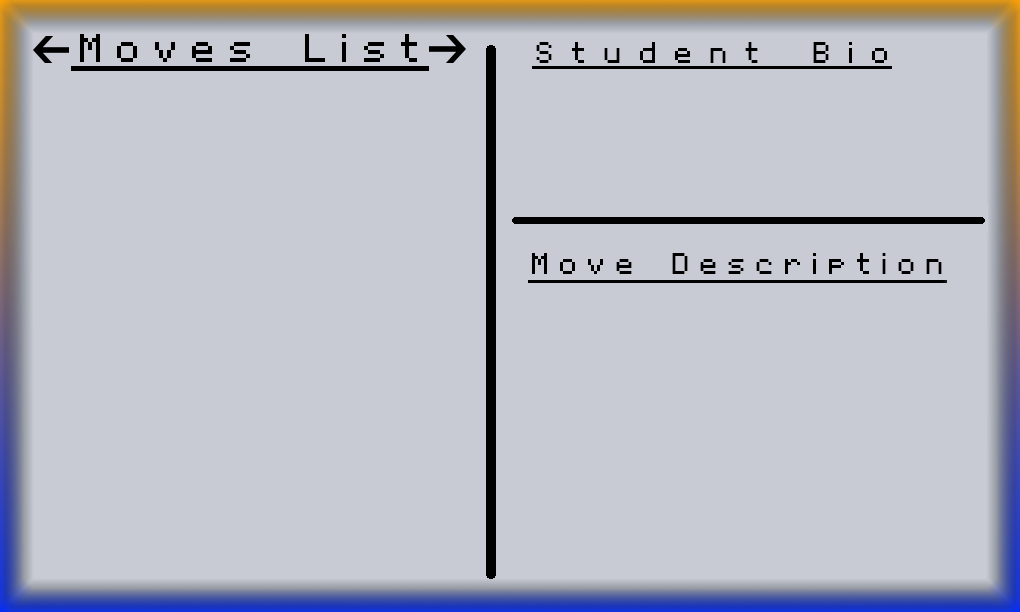
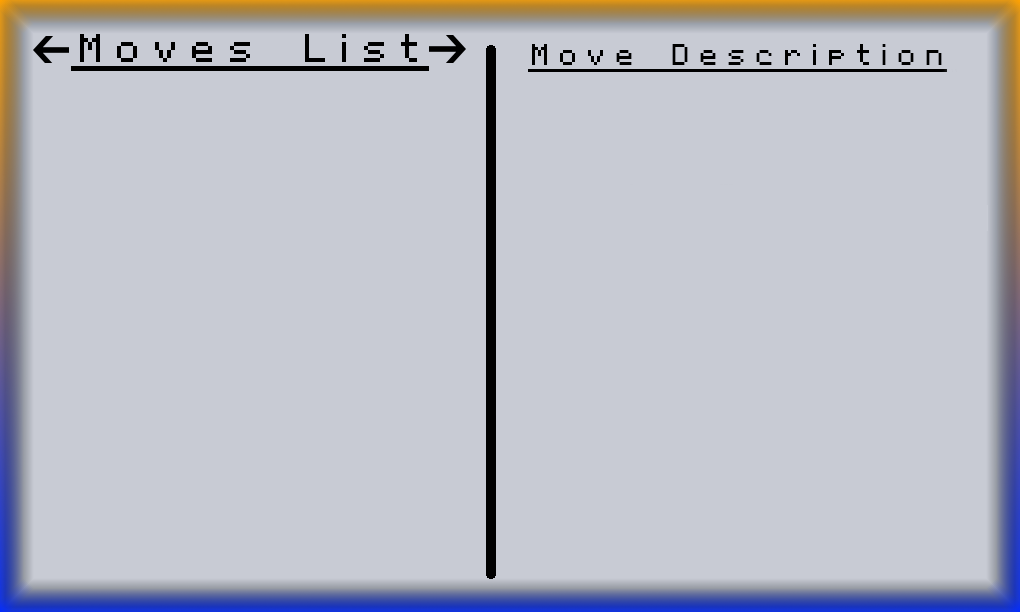
This completes the hero menu with the third degree audit panel and cleans up code in both the hero screen and inventory screens

Changed region(s): [[0.5167, 0.0621, 0.9422, 0.1242], [0.5167, 0.4036, 0.9422, 0.4657], [0.4863, 0.3415, 0.9725, 0.3725]]

diff --git a/core/src/com/superschmalgames/InventoryScreen.java b/core/src/com/superschmalgames/InventoryScreen.java
@@ -22,19 +22,11 @@ public class InventoryScreen implements Screen {
     int invPage;
     int invRow;
 
-    Texture invTex1, invTex2, invTex3, invTex4, invTex5;
-
     public InventoryScreen() {
 
         //Initialize the camera. Set the camera dimensions equal to our game screen height and width.
         camera = new OrthographicCamera();
         camera.setToOrtho(false, Utils.GAME_SCREEN_WIDTH, Utils.GAME_SCREEN_HEIGHT);
-
-        invTex1 = new Texture("visuals/Menus/Consumable Item Menu.png");
-        invTex2 = new Texture("visuals/Menus/Equipment Item Menu.png");
-        invTex3 = new Texture("visuals/Menus/Apparel Item Menu.png");
-        invTex4 = new Texture("visuals/Menus/Selected Item Box.png");
-        invTex5 = new Texture("visuals/Menus/white_sq.png");
 
     }
 
@@ -68,7 +60,7 @@ public class InventoryScreen implements Screen {
         );
 
         if(invPanel.equals("Consumable")) {
-            MainClass.batch.draw(invTex1, Utils.GAME_SCREEN_WIDTH / 2 - invTex1.getWidth() / 2, 0);
+            MainClass.batch.draw(Utils.inv_consumable_tex, 0, 0);
             int temp = 0;
             if(invPage == 0) {
                 for (int i = 0; i < MainClass.hero.inventory.items.size(); i++) {
@@ -77,7 +69,7 @@ public class InventoryScreen implements Screen {
                             MainClass.hero.inventory.items.get(i).getItemType() == 'c') {
                         Utils.font.draw(MainClass.batch, (MainClass.hero.inventory.items.get(i)).getItemName()
                                         + " x" + MainClass.hero.inventory.items.get(i).getQuantity(),
-                                Utils.GAME_SCREEN_WIDTH / 2 - invTex1.getWidth() / 2 + 50, 515 - 65 * temp);
+                                        50, 515 - 65 * temp);
                         temp += 1;
                     }
                 }
@@ -99,8 +91,7 @@ public class InventoryScreen implements Screen {
                             && MainClass.hero.inventory.items.get(i).getQuantity() > 0
                             && MainClass.hero.inventory.items.get(i).getItemType() == 'c') {
                         Utils.font.draw(MainClass.batch, (MainClass.hero.inventory.items.get(i)).getItemName()
-                                        + " x" + MainClass.hero.inventory.items.get(i).getQuantity(),
-                                Utils.GAME_SCREEN_WIDTH / 2 - invTex1.getWidth() / 2 + 50, 515 - 65 * invRow);
+                                        + " x" + MainClass.hero.inventory.items.get(i).getQuantity(), 50, 515 - 65 * invRow);
                     }
                 }
             }
@@ -109,7 +100,7 @@ public class InventoryScreen implements Screen {
             int invIndex = 0;
             if(invRow == 0 && invPage == 0 && MainClass.hero.inventory.getNumC() > 0)
             {
-                MainClass.batch.draw(invTex5, 505, 435, 94, 94);
+                MainClass.batch.draw(Utils.white_sq_tex, 505, 435, 94, 94);
 
                 while (MainClass.hero.inventory.items.get(invIndex).getItemType() != 'c' ||
                         MainClass.hero.inventory.items.get(invIndex).getQuantity() == 0) {
@@ -130,7 +121,7 @@ public class InventoryScreen implements Screen {
                     invIndex += 1;
                 }
                 if (MainClass.hero.inventory.getNumC() > 0) {
-                    MainClass.batch.draw(invTex5, 505, 435, 94, 94);
+                    MainClass.batch.draw(Utils.white_sq_tex, 505, 435, 94, 94);
                     MainClass.batch.draw(MainClass.hero.inventory.items.get(invIndex).getTexture(), 520, 450, 64, 64);
                     Utils.font_small.draw(MainClass.batch, MainClass.hero.inventory.items.get(invIndex).getItemName() +
                             "\nBoosts "+ MainClass.hero.inventory.items.get(invIndex).getStatBoosted()+" by "+
@@ -139,7 +130,7 @@ public class InventoryScreen implements Screen {
             }
         }
         else if(invPanel == "Equipment") {
-            MainClass.batch.draw(invTex2, Utils.GAME_SCREEN_WIDTH / 2 - invTex1.getWidth() / 2, 0);
+            MainClass.batch.draw(Utils.inv_equip_tex, 0, 0);
             int temp = 0;
             if(invPage == 0) {
                 for (int i = 0; i < MainClass.hero.inventory.items.size(); i++) {
@@ -148,7 +139,7 @@ public class InventoryScreen implements Screen {
                             MainClass.hero.inventory.items.get(i).getItemType() == 'e') {
                         Utils.font.draw(MainClass.batch, (MainClass.hero.inventory.items.get(i)).getItemName()
                                         + " x" + MainClass.hero.inventory.items.get(i).getQuantity(),
-                                Utils.GAME_SCREEN_WIDTH / 2 - invTex1.getWidth() / 2 + 50, 515 - 65 * temp);
+                                50, 515 - 65 * temp);
                         temp += 1;
                     }
                 }
@@ -171,7 +162,7 @@ public class InventoryScreen implements Screen {
                             && MainClass.hero.inventory.items.get(i).getItemType() == 'e') {
                         Utils.font.draw(MainClass.batch, (MainClass.hero.inventory.items.get(i)).getItemName()
                                         + " x" + MainClass.hero.inventory.items.get(i).getQuantity(),
-                                Utils.GAME_SCREEN_WIDTH / 2 - invTex1.getWidth() / 2 + 50, 515 - 65 * invRow);
+                               50, 515 - 65 * invRow);
                     }
                 }
             }
@@ -180,7 +171,7 @@ public class InventoryScreen implements Screen {
             int invIndex = 0;
             if(invRow == 0 && invPage == 0 && MainClass.hero.inventory.getNumE() > 0)
             {
-                MainClass.batch.draw(invTex5, 505, 435, 94, 94);
+                MainClass.batch.draw(Utils.white_sq_tex, 505, 435, 94, 94);
 
                 while (MainClass.hero.inventory.items.get(invIndex).getItemType() != 'e' ||
                         MainClass.hero.inventory.items.get(invIndex).getQuantity() == 0) {
@@ -201,7 +192,7 @@ public class InventoryScreen implements Screen {
                     invIndex += 1;
                 }
                 if (MainClass.hero.inventory.getNumE() > 0) {
-                    MainClass.batch.draw(invTex5, 505, 435, 94, 94);
+                    MainClass.batch.draw(Utils.white_sq_tex, 505, 435, 94, 94);
                     MainClass.batch.draw(MainClass.hero.inventory.items.get(invIndex).getTexture(), 520, 450, 64, 64);
                     Utils.font_small.draw(MainClass.batch, MainClass.hero.inventory.items.get(invIndex).getItemName() +
                             "\nBoosts "+ MainClass.hero.inventory.items.get(invIndex).getStatBoosted()+" by "+
@@ -210,7 +201,7 @@ public class InventoryScreen implements Screen {
             }
         }
         else if(invPanel == "Apparel") {
-            MainClass.batch.draw(invTex3, Utils.GAME_SCREEN_WIDTH / 2 - invTex1.getWidth() / 2, 0);
+            MainClass.batch.draw(Utils.inv_apparel_tex, 0, 0);
             int temp = 0;
             if(invPage == 0) {
                 for (int i = 0; i < MainClass.hero.inventory.items.size(); i++) {
@@ -219,7 +210,7 @@ public class InventoryScreen implements Screen {
                             MainClass.hero.inventory.items.get(i).getItemType() == 'a') {
                         Utils.font.draw(MainClass.batch, (MainClass.hero.inventory.items.get(i)).getItemName()
                                         + " x" + MainClass.hero.inventory.items.get(i).getQuantity(),
-                                Utils.GAME_SCREEN_WIDTH / 2 - invTex1.getWidth() / 2 + 50, 515 - 65 * temp);
+                                50, 515 - 65 * temp);
                         temp += 1;
                     }
                 }
@@ -242,7 +233,7 @@ public class InventoryScreen implements Screen {
                             && MainClass.hero.inventory.items.get(i).getItemType() == 'a') {
                         Utils.font.draw(MainClass.batch, (MainClass.hero.inventory.items.get(i)).getItemName()
                                         + " x" + MainClass.hero.inventory.items.get(i).getQuantity(),
-                                Utils.GAME_SCREEN_WIDTH / 2 - invTex1.getWidth() / 2 + 50, 515 - 65 * invRow);
+                                50, 515 - 65 * invRow);
                     }
                 }
             }
@@ -251,7 +242,7 @@ public class InventoryScreen implements Screen {
             int invIndex = 0;
             if(invRow == 0 && invPage == 0 && MainClass.hero.inventory.getNumA() > 0)
             {
-                MainClass.batch.draw(invTex5, 505, 435, 94, 94);
+                MainClass.batch.draw(Utils.white_sq_tex, 505, 435, 94, 94);
 
                 while (MainClass.hero.inventory.items.get(invIndex).getItemType() != 'a' ||
                         MainClass.hero.inventory.items.get(invIndex).getQuantity() == 0) {
@@ -272,7 +263,7 @@ public class InventoryScreen implements Screen {
                     invIndex += 1;
                 }
                 if (MainClass.hero.inventory.getNumA() > 0) {
-                    MainClass.batch.draw(invTex5, 505, 435, 94, 94);
+                    MainClass.batch.draw(Utils.white_sq_tex, 505, 435, 94, 94);
                     MainClass.batch.draw(MainClass.hero.inventory.items.get(invIndex).getTexture(), 520, 450, 64, 64);
                     Utils.font_small.draw(MainClass.batch, MainClass.hero.inventory.items.get(invIndex).getItemName() +
                             "\nBoosts "+ MainClass.hero.inventory.items.get(invIndex).getStatBoosted()+" by "+
@@ -281,19 +272,19 @@ public class InventoryScreen implements Screen {
             }
         }
 
-        MainClass.batch.draw(invTex4, Utils.GAME_SCREEN_WIDTH/2-invTex1.getWidth()/2+35,480-65*invRow);
+        MainClass.batch.draw(Utils.sel_item_tex, 35,480-65*invRow);
 
 
         if (invPanel.equals("Consumable") && MainClass.hero.inventory.getNumC() == 0)
-            Utils.font.draw(MainClass.batch, "No items of this type!", Utils.GAME_SCREEN_WIDTH/2-invTex1.getWidth()/2+50,515);
+            Utils.font.draw(MainClass.batch, "No items of this type!", 50,515);
         else if (invPanel.equals("Consumable") && MainClass.hero.inventory.getNumC() == 0)
-            Utils.font.draw(MainClass.batch, "No items of this type!", Utils.GAME_SCREEN_WIDTH/2-invTex1.getWidth()/2+50,515);
+            Utils.font.draw(MainClass.batch, "No items of this type!", 50,515);
         else if (invPanel.equals("Consumable") && MainClass.hero.inventory.getNumC() == 0)
-            Utils.font.draw(MainClass.batch, "No items of this type!", Utils.GAME_SCREEN_WIDTH/2-invTex1.getWidth()/2+50,515);
+            Utils.font.draw(MainClass.batch, "No items of this type!", 50,515);
 
         if(MainClass.hero.heroApparel.getItemName() != "")
         {
-            MainClass.batch.draw(invTex5, 505, 55, 94, 94);
+            MainClass.batch.draw(Utils.white_sq_tex, 505, 55, 94, 94);
             MainClass.batch.draw(MainClass.hero.heroApparel.getTexture(), 520, 70, 64, 64);
             Utils.font_small.draw(MainClass.batch, MainClass.hero.heroApparel.getItemName() +
                     "\nBoosts "+ MainClass.hero.heroApparel.getStatBoosted()+" by "+
@@ -302,7 +293,7 @@ public class InventoryScreen implements Screen {
 
         if(MainClass.hero.heroEquipment.getItemName() != "")
         {
-            MainClass.batch.draw(invTex5, 505, 240, 94, 94);
+            MainClass.batch.draw(Utils.white_sq_tex, 505, 240, 94, 94);
             MainClass.batch.draw(MainClass.hero.heroEquipment.getTexture(), 520, 255, 64, 64);
             Utils.font_small.draw(MainClass.batch, MainClass.hero.heroEquipment.getItemName() +
                     "\nBoosts "+ MainClass.hero.heroEquipment.getStatBoosted()+" by "+

diff --git a/core/src/com/superschmalgames/HeroScreen.java b/core/src/com/superschmalgames/HeroScreen.java
@@ -18,18 +18,11 @@ public class HeroScreen implements Screen {
     int heroPage;
     int heroRow;
 
-    Texture heroTex1, heroTex2, heroTex3, heroTex4, heroTex5;
-
     public HeroScreen() {
 
         //Initialize the camera. Set the camera dimensions equal to our game screen height and width.
         camera = new OrthographicCamera();
         camera.setToOrtho(false, Utils.GAME_SCREEN_WIDTH, Utils.GAME_SCREEN_HEIGHT);
-
-        heroTex1 = new Texture("visuals/Menus/hero_statistics_menu.png");
-        heroTex2 = new Texture("visuals/Menus/hero_moves_menu.png");
-        heroTex4 = new Texture("visuals/Menus/Selected Item Box.png");
-        heroTex5 = new Texture("visuals/Menus/white_sq.png");
     }
 
     @Override
@@ -46,7 +39,7 @@ public class HeroScreen implements Screen {
         MainClass.batch.begin();
 
         if(heroPanel.equals("Statistics")) {
-            MainClass.batch.draw(heroTex1, Utils.GAME_SCREEN_WIDTH / 2 - heroTex1.getWidth() / 2, 0);
+            MainClass.batch.draw(Utils.hero_stats_tex, 0, 0);
             Utils.font.draw(MainClass.batch,"Software: "+MainClass.hero.software_buf+"/"+MainClass.hero.software, 50,515);
             Utils.font.draw(MainClass.batch,"Hardware: "+MainClass.hero.hardware_buf+"/"+MainClass.hero.hardware, 50,450);
             Utils.font.draw(MainClass.batch,"Read/Write: "+MainClass.hero.readWrite_buf+"/"+MainClass.hero.readWrite, 50, 385);
@@ -74,7 +67,7 @@ public class HeroScreen implements Screen {
         }
         else if("Moves".equals(heroPanel))
         {
-            MainClass.batch.draw(heroTex2, Utils.GAME_SCREEN_WIDTH / 2 - heroTex1.getWidth() / 2, 0);
+            MainClass.batch.draw(Utils.hero_moves_tex, 0, 0);
             int temp = 0;
             int p2index = 0;
             int p3index = 0;
@@ -132,11 +125,11 @@ public class HeroScreen implements Screen {
             }
         }
 
-        MainClass.batch.draw(heroTex4, 35,480-65*heroRow);
+        MainClass.batch.draw(Utils.sel_item_tex, 35,480-65*heroRow);
 
         if(MainClass.hero.heroApparel.getItemName() != "" && "Statistics".equals(heroPanel))
         {
-            MainClass.batch.draw(heroTex5, 505, 55, 94, 94);
+            MainClass.batch.draw(Utils.white_sq_tex, 505, 55, 94, 94);
             MainClass.batch.draw(MainClass.hero.heroApparel.getTexture(), 520, 70, 64, 64);
             Utils.font_small.draw(MainClass.batch, MainClass.hero.heroApparel.getItemName() +
                     "\nBoosts "+ MainClass.hero.heroApparel.getStatBoosted()+" by "+
@@ -145,7 +138,7 @@ public class HeroScreen implements Screen {
 
         if(MainClass.hero.heroEquipment.getItemName() != "" && "Statistics".equals(heroPanel))
         {
-            MainClass.batch.draw(heroTex5, 505, 240, 94, 94);
+            MainClass.batch.draw(Utils.white_sq_tex, 505, 240, 94, 94);
             MainClass.batch.draw(MainClass.hero.heroEquipment.getTexture(), 520, 255, 64, 64);
             Utils.font_small.draw(MainClass.batch, MainClass.hero.heroEquipment.getItemName() +
                     "\nBoosts "+ MainClass.hero.heroEquipment.getStatBoosted()+" by "+
@@ -154,11 +147,29 @@ public class HeroScreen implements Screen {
 
         if("Moves".equals(heroPanel))
         {
-            MainClass.batch.draw(heroTex5, 495, 215, 94, 94);
-            MainClass.batch.draw(MainClass.hero.moves.attacks[MainClass.hero.moves.getCurrentMove()].texture, 510, 230, 64, 64);
+            MainClass.batch.draw(Utils.white_sq_tex, 495, 450, 94, 94);
+            MainClass.batch.draw(MainClass.hero.moves.attacks[MainClass.hero.moves.getCurrentMove()].texture, 510, 465, 64, 64);
             Utils.font_medsmall.draw(MainClass.batch,
                     MainClass.hero.moves.attacks[MainClass.hero.moves.getCurrentMove()].description,
-                    595, 300);
+                    595, 530);
+        }
+
+        if("Degree Audit".equals(heroPanel))
+        {
+            MainClass.batch.draw(Utils.hero_degree_tex, 0, 0);
+            Utils.font.draw(MainClass.batch,"Programming I: Dobbins", 100,505);
+            Utils.font.draw(MainClass.batch,"Calculus II: Chui", 100,440);
+            Utils.font.draw(MainClass.batch,"Programming II: Horton", 100, 385);
+            Utils.font.draw(MainClass.batch,"Circuits I: Srivastava", 100,325);
+            Utils.font.draw(MainClass.batch,"Signals and Systems: Wong", 100,265);
+            Utils.font.draw(MainClass.batch,"Digital Logic: Gugel", 100, 205);
+            Utils.font.draw(MainClass.batch,"Operating Systems: Small", 100, 140);
+            Utils.font.draw(MainClass.batch,"Senior Design: Schmalz", 100, 80);
+
+            for(int i=0; i<MainClass.hero.semester; i++)
+            {
+                MainClass.batch.draw(Utils.checkbox2_tex, 845, 475-60*i, 50, 50);
+            }
         }
 
         Utils.testFont.draw(MainClass.batch, "heroRow " + MainClass.heroScreen.heroRow + " heroPage "+MainClass.heroScreen.heroPage, 0, Utils.GAME_SCREEN_HEIGHT - 75);

diff --git a/core/src/com/superschmalgames/InputHandler.java b/core/src/com/superschmalgames/InputHandler.java
@@ -245,16 +245,31 @@ public class InputHandler implements InputProcessor {
             //THIS IS THE CODE FOR THE HERO SCREEN
             //////////////////////////////////////////////////////////////////////////////////////////////////////////////////
             else if (((Game) Gdx.app.getApplicationListener()).getScreen() == MainClass.heroScreen) {
-                if (keycode == Input.Keys.LEFT || keycode == Input.Keys.RIGHT) {
+                if (keycode == Input.Keys.LEFT) {
                     Utils.page.play();
                     MainClass.heroScreen.heroRow = 0;
                     MainClass.heroScreen.heroPage = 0;
-                    if (MainClass.heroScreen.heroPanel == "Statistics") {
+                    if ("Statistics".equals(MainClass.heroScreen.heroPanel)) {
                         MainClass.heroScreen.heroPanel = "Moves";
-                    } else if (MainClass.heroScreen.heroPanel == "Moves") {
+                    } else if ("Moves".equals(MainClass.heroScreen.heroPanel)) {
+                        MainClass.heroScreen.heroPanel = "Degree Audit";
+                    } else if ("Degree Audit".equals(MainClass.heroScreen.heroPanel)) {
                         MainClass.heroScreen.heroPanel = "Statistics";
                     }
-                } else if (keycode == Input.Keys.H) {
+                }
+                else if (keycode == Input.Keys.RIGHT) {
+                    Utils.page.play();
+                    MainClass.heroScreen.heroRow = 0;
+                    MainClass.heroScreen.heroPage = 0;
+                    if ("Statistics".equals(MainClass.heroScreen.heroPanel)) {
+                        MainClass.heroScreen.heroPanel = "Degree Audit";
+                    } else if ("Moves".equals(MainClass.heroScreen.heroPanel)) {
+                        MainClass.heroScreen.heroPanel = "Statistics";
+                    } else if ("Degree Audit".equals(MainClass.heroScreen.heroPanel)) {
+                        MainClass.heroScreen.heroPanel = "Moves";
+                    }
+                }
+                else if (keycode == Input.Keys.H) {
                     //Play the sound effect when player pushes the button.
                     Utils.inventoryScreenSelectionSound.play();
                     //Set the gamescreen to be the inventory game screen.

diff --git a/core/src/com/superschmalgames/Utils.java b/core/src/com/superschmalgames/Utils.java
@@ -76,6 +76,10 @@ public class Utils {
     ///////////////////////////////////////////////////////////////////////////////////////////////////////////////////////////
 
     /////////////////////////////////INVENTORY ITEM TEXTURES///////////////////////////////////////////////////////////////
+    public static final Texture inv_consumable_tex = new Texture("visuals/Menus/Consumable Item Menu.png");
+    public static final Texture inv_equip_tex = new Texture("visuals/Menus/Equipment Item Menu.png");
+    public static final Texture inv_apparel_tex = new Texture("visuals/Menus/Apparel Item Menu.png");
+
     //Consumable
     public static final Texture redbull_tex = new Texture("visuals/inv_items/consume/redbull.png");
     public static final Texture starbucks_tex = new Texture("visuals/inv_items/consume/starbucks.png");
@@ -127,6 +131,16 @@ public class Utils {
     public static final Texture set_equal_to_0_tex = new Texture("visuals/hero_moves/set_equal_to_0.png");
     public static final Texture soldering_skills_tex = new Texture("visuals/hero_moves/soldering_skills.png");
     public static final Texture stack_overflow_tex = new Texture("visuals/hero_moves/stack_overflow.png");
+
+    //ADDITIONAL HERO SCREEN TEXTURES
+    public static final Texture checkbox_tex = new Texture("visuals/Menus/checkbox.png");
+    public static final Texture checkbox2_tex = new Texture("visuals/Menus/checkbox2.png");
+
+    public static final Texture hero_stats_tex = new Texture("visuals/Menus/hero_statistics_menu.png");
+    public static final Texture hero_moves_tex = new Texture("visuals/Menus/hero_moves_menu.png");
+    public static final Texture sel_item_tex = new Texture("visuals/Menus/Selected Item Box.png");
+    public static final Texture white_sq_tex = new Texture("visuals/Menus/white_sq.png");
+    public static final Texture hero_degree_tex = new Texture("visuals/Menus/hero_degree_menu.png");
 
     ///////////////////////////////////////////////////////////////////////////////////////////////////////////////////////
 

diff --git a/core/src/com/superschmalgames/HeroCharacter.java b/core/src/com/superschmalgames/HeroCharacter.java
@@ -19,6 +19,9 @@ public class HeroCharacter {
     ApparelItem heroApparel;
     EquipableItem heroEquipment;
 
+    //Represents numbers of semester completed. Each named professor beaten will increase this by 1.
+    public int semester;
+
     //Character stats.
     public double software;
     public double hardware;
@@ -57,12 +60,15 @@ public class HeroCharacter {
 
         //These will represent the actual equipped slots that the hero character has
         heroApparel = new ApparelItem();
-       heroEquipment = new EquipableItem();
+        heroEquipment = new EquipableItem();
 
         //Create and initialize hero character's inventory.
         inventory = new HeroInventory();
         //Create and initialize hero character's move list.
         moves = new HeroMoves();
+
+        //#Semesters completed. Each named professor beaten increments this by 1.
+        semester = 8;
     }
 
     public void initAnimations(){
